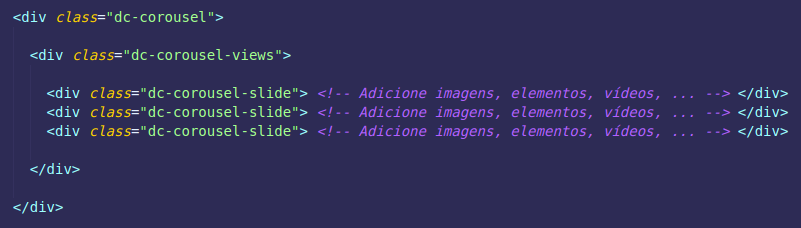
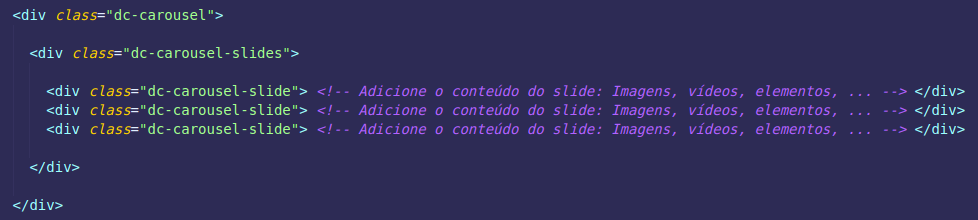
Ajustes na definiçao do projeto

diff --git a/files/script.js b/files/script.js
@@ -4,9 +4,9 @@
 
 function SliderController() {
 
-  const carouselContainer = document.querySelector('.dc-carousel')        // Retorna o carrossel, onde é renderizado os slides
-  const carouselView = document.querySelector('.dc-carousel-slides')      // Retorna o elemento que contém todos os slides
-  const carouselSliders = document.querySelectorAll('.dc-carousel-slide') // Retorna cada slide existente no carrossel
+  const carouselContainer = document.querySelector('.dc-carousel')
+  const carouselView = document.querySelector('.dc-carousel-slides')
+  const carouselSliders = document.querySelectorAll('.dc-carousel-slide')
 
   const arrowElements = document.querySelectorAll('.default__arrow')
 
@@ -27,8 +27,6 @@ function SliderController() {
   }
 
   this.renderConfigs = (general) => {
-    console.log(general)
-
     if (general.loop) {
       if (general.autoplay) {
         this.sliderControl(true, true)

diff --git a/index.html b/index.html
@@ -24,7 +24,6 @@
           <div class="dc-carousel-slide"></div>
           <div class="dc-carousel-slide"></div>
           <div class="dc-carousel-slide"></div>
-          <!-- <div class="dc-carousel-slide"></div> -->
 
         </div>
 

diff --git a/files/style.css b/files/style.css
@@ -19,8 +19,6 @@
   flex-direction: column;
   width: 100%;
   height: 100%;
-  /* transition: .5s; */
-  /* transform: translateX(-800px); */
 }
 
 .dc-carousel-slide {

diff --git a/README.md b/README.md
@@ -10,21 +10,23 @@
 
 **Manipulação:** É possível modificar o funcionamento do carrossel, passando para função variáveis manipuladoras.
 
+<img src="files/images/screenshot_configs.png">
+
 ###
 
 #### Variáveis de manipulação
 
 **Formatação geral**
 
-`loop: <valor>` Se ativado, quando clicado para a próxima exibição e não houver mais, retorna para a primeira
+`loop: (true/false)` Se ativado, quando clicado para a próxima exibição e não houver mais, retorna para a primeira
 
 **Tempo e Contadores**
 
-`transition_time: <valor>` Configura o tempo que leva para transitar entre exibições
-`autoplay: <valor>` Se ativado, define um tempo automático de transição
-`autoplay_time: <valor>` Quando autoplay está ativado, define o tempo entre as transições automáticas
-`counter: <valor>` Configura para aparecer os contadores de exibições na parte inferior
+`transition_time: (X segundos)` Configura o tempo que leva para transitar entre exibições
+`autoplay: (true/false)` Se ativado, define um tempo automático de transição
+`autoplay_time: (X segundos)` Quando autoplay está ativado, define o tempo entre as transições automáticas
+`counter: (true/false)` Configura para aparecer os contadores de exibições na parte inferior
 
 #### Reports
 
-> A primeira transição não apresenta tempo de transição, posteriormente se normaliza
+> [ Resolvido ] - A primeira transição não apresenta tempo de transição, posteriormente se normaliza
